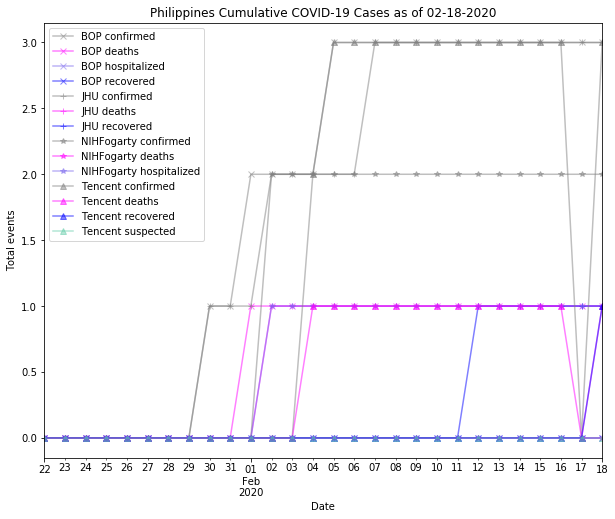
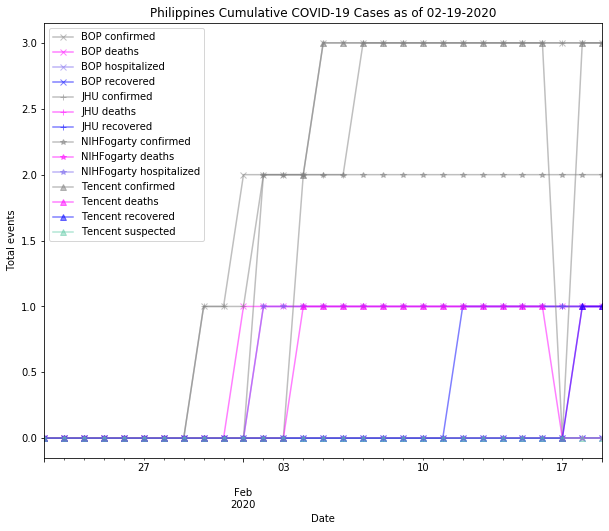
updating daily figs

Changed region(s): [[0.0, 0.0, 0.9984, 0.9557], [0.4992, 0.9557, 0.5616, 0.9865]]

diff --git a/country_reports/United_States_report.md b/country_reports/United_States_report.md
@@ -1,6 +1,6 @@
 # United States
 ## NSSAC COVID-19 Summary
-## 02/18/2020
+## 02/19/2020
 
 
 
@@ -14,11 +14,11 @@
 |                           | BOP              | JHU                         | NIHFogarty       | Tencent                       |
 |---------------------------|------------------|-----------------------------|------------------|-------------------------------|
 | First update logged       | 01/12/20         | 01/22/20                    | 01/13/20         | 02/04/20                      |
-| Last update logged        | 02/06/20         | 02/17/20                    | 02/18/20         | 02/18/20                      |
+| Last update logged        | 02/06/20         | 02/18/20                    | 02/18/20         | 02/19/20                      |
 | Method                    | Public line list | Cases by day & country list | Public line list | Daily cases in country scrape |
 | First known case          | 01/20/20         | 01/22/20                    | 01/21/20         | 02/06/20                      |
-| Total confirmed cases     | 12               | 15                          | 13               | 15                            |
-| New cases since yesterday |                  |                             |                  | 15                            |
+| Total confirmed cases     | 12               | 29                          | 13               | 15                            |
+| New cases since yesterday |                  |                             |                  | 0                             |
 | Total suspected           |                  |                             |                  | 0                             |
 | Total hospitalized        | 2                |                             | 4                |                               |
 | Total recovered           | 0                | 3                           |                  | 3                             |
@@ -44,23 +44,24 @@ Data sources: BOP, JHU, NIH-Fogarty, Tencent
 |  5 | NIH      | Chicago, United States          |           1 |
 |  6 | NIH      | Illinois, United States         |           1 |
 |  7 | NIH      | Wisconsin, United States        |           1 |
-|  8 | JHU      | San Benito, CA, US              |           2 |
-|  9 | JHU      | Chicago, IL, US                 |           2 |
-| 10 | JHU      | San Diego County, CA, US        |           2 |
-| 11 | JHU      | Santa Clara, CA, US             |           2 |
-| 12 | JHU      | Boston, MA, US                  |           1 |
-| 13 | JHU      | Tempe, AZ, US                   |           1 |
-| 14 | JHU      | Madison, WI, US                 |           1 |
-| 15 | JHU      | Orange, CA, US                  |           1 |
-| 16 | JHU      | Los Angeles, CA, US             |           1 |
-| 17 | JHU      | San Antonio, TX, US             |           1 |
-| 18 | JHU      | Seattle, WA, US                 |           1 |
-| 19 | BOP      | California, United States       |           6 |
-| 20 | BOP      | Illinois, United States         |           2 |
-| 21 | BOP      | Massachusetts, United States    |           1 |
-| 22 | BOP      | Washington State, United States |           1 |
-| 23 | BOP      | Arizona, United States          |           1 |
-| 24 | BOP      | Wisconsin, United States        |           1 |
+|  8 | JHU      | Omaha, NE, US                   |          14 |
+|  9 | JHU      | San Benito, CA, US              |           2 |
+| 10 | JHU      | Chicago, IL, US                 |           2 |
+| 11 | JHU      | San Diego County, CA, US        |           2 |
+| 12 | JHU      | Santa Clara, CA, US             |           2 |
+| 13 | JHU      | Madison, WI, US                 |           1 |
+| 14 | JHU      | Tempe, AZ, US                   |           1 |
+| 15 | JHU      | Boston, MA, US                  |           1 |
+| 16 | JHU      | Orange, CA, US                  |           1 |
+| 17 | JHU      | Los Angeles, CA, US             |           1 |
+| 18 | JHU      | San Antonio, TX, US             |           1 |
+| 19 | JHU      | Seattle, WA, US                 |           1 |
+| 20 | BOP      | California, United States       |           6 |
+| 21 | BOP      | Illinois, United States         |           2 |
+| 22 | BOP      | Massachusetts, United States    |           1 |
+| 23 | BOP      | Washington State, United States |           1 |
+| 24 | BOP      | Arizona, United States          |           1 |
+| 25 | BOP      | Wisconsin, United States        |           1 |
 
 Data sources: BOP, JHU, NIH-Fogarty, Tencent
 

diff --git a/country_reports/South_Korea_report.md b/country_reports/South_Korea_report.md
@@ -1,6 +1,6 @@
 # South Korea
 ## NSSAC COVID-19 Summary
-## 02/18/2020
+## 02/19/2020
 
 
 
@@ -14,14 +14,14 @@
 |                           | BOP              | JHU                         | NIHFogarty       | Tencent                       |
 |---------------------------|------------------|-----------------------------|------------------|-------------------------------|
 | First update logged       | 01/12/20         | 01/22/20                    | 01/13/20         | 02/04/20                      |
-| Last update logged        | 02/06/20         | 02/17/20                    | 02/18/20         | 02/18/20                      |
+| Last update logged        | 02/06/20         | 02/18/20                    | 02/18/20         | 02/19/20                      |
 | Method                    | Public line list | Cases by day & country list | Public line list | Daily cases in country scrape |
 | First known case          | 01/20/20         | 01/22/20                    | 01/20/20         | 02/07/20                      |
-| Total confirmed cases     | 21               | 30                          | 28               | 28                            |
-| New cases since yesterday |                  |                             |                  | 28                            |
+| Total confirmed cases     | 21               | 31                          | 28               | 28                            |
+| New cases since yesterday |                  |                             |                  | -23                           |
 | Total suspected           |                  |                             |                  | 0                             |
 | Total hospitalized        | 5                |                             | 6                |                               |
-| Total recovered           | 0                | 10                          |                  | 3                             |
+| Total recovered           | 0                | 12                          |                  | 3                             |
 | Total deaths              | 0                | 0                           | 0                | 0                             |
 
 Data sources: BOP, JHU, NIH-Fogarty, Tencent
@@ -36,10 +36,10 @@ Data sources: BOP, JHU, NIH-Fogarty, Tencent
 
 |    | source   | loc_name                 |   confirmed |
 |----|----------|--------------------------|-------------|
-|  0 | Tencent  | Korea                    |          31 |
+|  0 | Tencent  | Korea                    |          51 |
 |  1 | NIH      | South Korea, South Korea |          27 |
 |  2 | NIH      | Seoul, South Korea       |           1 |
-|  3 | JHU      | South Korea              |          30 |
+|  3 | JHU      | South Korea              |          31 |
 |  4 | BOP      | Gyeonggi, South Korea    |           1 |
 
 Data sources: BOP, JHU, NIH-Fogarty, Tencent

diff --git a/country_reports/Singapore_report.md b/country_reports/Singapore_report.md
@@ -1,6 +1,6 @@
 # Singapore
 ## NSSAC COVID-19 Summary
-## 02/18/2020
+## 02/19/2020
 
 
 
@@ -14,14 +14,14 @@
 |                           | BOP              | JHU                         | NIHFogarty       | Tencent                       |
 |---------------------------|------------------|-----------------------------|------------------|-------------------------------|
 | First update logged       | 01/12/20         | 01/22/20                    | 01/13/20         | 02/04/20                      |
-| Last update logged        | 02/06/20         | 02/17/20                    | 02/18/20         | 02/18/20                      |
+| Last update logged        | 02/06/20         | 02/18/20                    | 02/18/20         | 02/19/20                      |
 | Method                    | Public line list | Cases by day & country list | Public line list | Daily cases in country scrape |
 | First known case          | 01/23/20         | 01/22/20                    | 01/24/20         | 02/04/20                      |
-| Total confirmed cases     | 28               | 77                          | 81               | 81                            |
-| New cases since yesterday |                  |                             | 4                | 4                             |
+| Total confirmed cases     | 28               | 81                          | 81               | 84                            |
+| New cases since yesterday |                  |                             |                  | 3                             |
 | Total suspected           |                  |                             |                  | 0                             |
 | Total hospitalized        | 17               |                             | 65               |                               |
-| Total recovered           | 0                | 24                          |                  | 29                            |
+| Total recovered           | 0                | 29                          |                  | 34                            |
 | Total deaths              | 0                | 0                           | 0                | 0                             |
 
 Data sources: BOP, JHU, NIH-Fogarty, Tencent
@@ -36,9 +36,9 @@ Data sources: BOP, JHU, NIH-Fogarty, Tencent
 
 |    | source   | loc_name             |   confirmed |
 |----|----------|----------------------|-------------|
-|  0 | Tencent  | Singapore            |          81 |
+|  0 | Tencent  | Singapore            |          84 |
 |  1 | NIH      | Singapore, Singapore |          81 |
-|  2 | JHU      | Singapore            |          77 |
+|  2 | JHU      | Singapore            |          81 |
 |  3 | BOP      | Singapore            |          28 |
 
 Data sources: BOP, JHU, NIH-Fogarty, Tencent

diff --git a/country_reports/Japan_report.md b/country_reports/Japan_report.md
@@ -1,6 +1,6 @@
 # Japan
 ## NSSAC COVID-19 Summary
-## 02/18/2020
+## 02/19/2020
 
 
 
@@ -14,14 +14,14 @@
 |                           | BOP              | JHU                         | NIHFogarty       | Tencent                       |
 |---------------------------|------------------|-----------------------------|------------------|-------------------------------|
 | First update logged       | 01/12/20         | 01/22/20                    | 01/13/20         | 02/04/20                      |
-| Last update logged        | 02/06/20         | 02/17/20                    | 02/18/20         | 02/18/20                      |
+| Last update logged        | 02/06/20         | 02/18/20                    | 02/18/20         | 02/19/20                      |
 | Method                    | Public line list | Cases by day & country list | Public line list | Daily cases in country scrape |
 | First known case          | 01/15/20         | 01/22/20                    | 01/15/20         | 02/04/20                      |
-| Total confirmed cases     | 44               | 66                          | 31               | 616                           |
-| New cases since yesterday |                  |                             |                  | 97                            |
+| Total confirmed cases     | 44               | 74                          | 31               | 616                           |
+| New cases since yesterday |                  |                             |                  | 0                             |
 | Total suspected           |                  |                             |                  | 0                             |
 | Total hospitalized        | 16               |                             | 26               |                               |
-| Total recovered           | 1                | 12                          |                  | 1                             |
+| Total recovered           | 1                | 13                          |                  | 1                             |
 | Total deaths              | 0                | 1                           | 0                | 1                             |
 
 Data sources: BOP, JHU, NIH-Fogarty, Tencent
@@ -50,7 +50,7 @@ Data sources: BOP, JHU, NIH-Fogarty, Tencent
 | 11 | NIH      | Mie, Japan                 |           1 |
 | 12 | NIH      | Wakayama Prefecture, Japan |           1 |
 | 13 | NIH      | Nara Prefecture, Japan     |           1 |
-| 14 | JHU      | Japan                      |          66 |
+| 14 | JHU      | Japan                      |          74 |
 | 15 | BOP      | Kanagawa, Japan            |          21 |
 | 16 | BOP      | Tokyo, Japan               |           8 |
 | 17 | BOP      | Kyoto, Japan               |           2 |

diff --git a/country_reports/Malaysia_report.md b/country_reports/Malaysia_report.md
@@ -1,6 +1,6 @@
 # Malaysia
 ## NSSAC COVID-19 Summary
-## 02/18/2020
+## 02/19/2020
 
 
 
@@ -14,14 +14,14 @@
 |                           | BOP              | JHU                         | NIHFogarty       | Tencent                       |
 |---------------------------|------------------|-----------------------------|------------------|-------------------------------|
 | First update logged       | 01/12/20         | 01/22/20                    | 01/13/20         | 02/04/20                      |
-| Last update logged        | 02/06/20         | 02/17/20                    | 02/18/20         | 02/18/20                      |
+| Last update logged        | 02/06/20         | 02/18/20                    | 02/18/20         | 02/19/20                      |
 | Method                    | Public line list | Cases by day & country list | Public line list | Daily cases in country scrape |
 | First known case          | 01/25/20         | 01/22/20                    | 01/24/20         | 02/06/20                      |
 | Total confirmed cases     | 12               | 22                          | 18               | 21                            |
-| New cases since yesterday |                  |                             |                  | 21                            |
+| New cases since yesterday |                  |                             |                  | 2                             |
 | Total suspected           |                  |                             |                  | 0                             |
 | Total hospitalized        | 1                |                             | 4                |                               |
-| Total recovered           | 0                | 7                           |                  | 3                             |
+| Total recovered           | 0                | 13                          |                  | 3                             |
 | Total deaths              | 0                | 0                           | 0                | 0                             |
 
 Data sources: BOP, JHU, NIH-Fogarty, Tencent

diff --git a/country_reports/Vietnam_report.md b/country_reports/Vietnam_report.md
@@ -1,6 +1,6 @@
 # Vietnam
 ## NSSAC COVID-19 Summary
-## 02/18/2020
+## 02/19/2020
 
 
 
@@ -14,11 +14,11 @@
 |                           | BOP              | JHU                         | NIHFogarty       | Tencent                       |
 |---------------------------|------------------|-----------------------------|------------------|-------------------------------|
 | First update logged       | 01/12/20         | 01/22/20                    | 01/13/20         | 02/04/20                      |
-| Last update logged        | 02/06/20         | 02/17/20                    | 02/18/20         | 02/18/20                      |
+| Last update logged        | 02/06/20         | 02/18/20                    | 02/18/20         | 02/19/20                      |
 | Method                    | Public line list | Cases by day & country list | Public line list | Daily cases in country scrape |
-| First known case          | 01/23/20         | 01/22/20                    | 01/23/20         | 02/07/20                      |
+| First known case          | 01/23/20         | 01/22/20                    | 01/23/20         | 02/06/20                      |
 | Total confirmed cases     | 12               | 16                          | 15               | 16                            |
-| New cases since yesterday |                  |                             |                  | 16                            |
+| New cases since yesterday |                  |                             |                  | 0                             |
 | Total suspected           |                  |                             |                  | 0                             |
 | Total hospitalized        | 8                |                             | 1                |                               |
 | Total recovered           | 0                | 7                           |                  | 7                             |

diff --git a/country_reports/Taiwan_report.md b/country_reports/Taiwan_report.md
@@ -1,6 +1,6 @@
 # Taiwan
 ## NSSAC COVID-19 Summary
-## 02/18/2020
+## 02/19/2020
 
 
 
@@ -14,11 +14,11 @@
 |                           | BOP              | JHU                         | NIHFogarty       | Tencent                       |
 |---------------------------|------------------|-----------------------------|------------------|-------------------------------|
 | First update logged       | 01/12/20         | 01/22/20                    | 01/13/20         | 02/04/20                      |
-| Last update logged        | 02/06/20         | 02/17/20                    | 02/18/20         | 02/18/20                      |
+| Last update logged        | 02/06/20         | 02/18/20                    | 02/18/20         | 02/19/20                      |
 | Method                    | Public line list | Cases by day & country list | Public line list | Daily cases in country scrape |
 | First known case          | 02/06/20         | 01/22/20                    | 01/21/20         | 02/04/20                      |
-| Total confirmed cases     | 3                | 22                          | 18               | 22                            |
-| New cases since yesterday |                  |                             |                  | 0                             |
+| Total confirmed cases     | 3                | 22                          | 18               | 23                            |
+| New cases since yesterday |                  |                             |                  | 1                             |
 | Total suspected           |                  |                             |                  | 0                             |
 | Total hospitalized        | 3                |                             | 13               |                               |
 | Total recovered           | 0                | 2                           |                  | 2                             |

diff --git a/country_reports/United_Kingdom_report.md b/country_reports/United_Kingdom_report.md
@@ -1,6 +1,6 @@
 # United Kingdom
 ## NSSAC COVID-19 Summary
-## 02/18/2020
+## 02/19/2020
 
 
 
@@ -14,11 +14,11 @@
 |                           | BOP              | JHU                         | NIHFogarty       | Tencent                       |
 |---------------------------|------------------|-----------------------------|------------------|-------------------------------|
 | First update logged       | 01/12/20         | 01/22/20                    | 01/13/20         | 02/04/20                      |
-| Last update logged        | 02/06/20         | 02/17/20                    | 02/18/20         | 02/18/20                      |
+| Last update logged        | 02/06/20         | 02/18/20                    | 02/18/20         | 02/19/20                      |
 | Method                    | Public line list | Cases by day & country list | Public line list | Daily cases in country scrape |
 | First known case          | 01/31/20         | 01/22/20                    | 01/31/20         | 02/06/20                      |
 | Total confirmed cases     | 3                | 9                           | 9                | 8                             |
-| New cases since yesterday |                  |                             |                  | 8                             |
+| New cases since yesterday |                  |                             |                  | 0                             |
 | Total suspected           |                  |                             |                  | 0                             |
 | Total hospitalized        | 0                |                             | 0                |                               |
 | Total recovered           | 0                | 8                           |                  | 0                             |

diff --git a/country_reports/Philippines_report.md b/country_reports/Philippines_report.md
@@ -1,6 +1,6 @@
 # Philippines
 ## NSSAC COVID-19 Summary
-## 02/18/2020
+## 02/19/2020
 
 
 
@@ -14,11 +14,11 @@
 |                           | BOP              | JHU                         | NIHFogarty       | Tencent                       |
 |---------------------------|------------------|-----------------------------|------------------|-------------------------------|
 | First update logged       | 01/12/20         | 01/22/20                    | 01/13/20         | 02/04/20                      |
-| Last update logged        | 02/06/20         | 02/17/20                    | 02/18/20         | 02/18/20                      |
+| Last update logged        | 02/06/20         | 02/18/20                    | 02/18/20         | 02/19/20                      |
 | Method                    | Public line list | Cases by day & country list | Public line list | Daily cases in country scrape |
 | First known case          | 01/30/20         | 01/22/20                    | 02/02/20         | 02/17/20                      |
 | Total confirmed cases     | 3                | 3                           | 2                | 3                             |
-| New cases since yesterday |                  |                             |                  | 3                             |
+| New cases since yesterday |                  |                             |                  | 0                             |
 | Total suspected           |                  |                             |                  | 0                             |
 | Total hospitalized        | 0                |                             | 1                |                               |
 | Total recovered           | 0                | 1                           |                  | 1                             |

diff --git a/country_reports/Sri_Lanka_report.md b/country_reports/Sri_Lanka_report.md
@@ -1,6 +1,6 @@
 # Sri Lanka
 ## NSSAC COVID-19 Summary
-## 02/18/2020
+## 02/19/2020
 
 
 
@@ -14,11 +14,11 @@
 |                           | BOP              | JHU                         | NIHFogarty       | Tencent                       |
 |---------------------------|------------------|-----------------------------|------------------|-------------------------------|
 | First update logged       | 01/12/20         | 01/22/20                    | 01/13/20         | 02/04/20                      |
-| Last update logged        | 02/06/20         | 02/17/20                    | 02/18/20         | 02/18/20                      |
+| Last update logged        | 02/06/20         | 02/18/20                    | 02/18/20         | 02/19/20                      |
 | Method                    | Public line list | Cases by day & country list | Public line list | Daily cases in country scrape |
 | First known case          | 01/27/20         | 01/22/20                    | 01/28/20         | 02/06/20                      |
 | Total confirmed cases     | 1                | 1                           | 1                | 1                             |
-| New cases since yesterday |                  |                             |                  | 1                             |
+| New cases since yesterday |                  |                             |                  | 0                             |
 | Total suspected           |                  |                             |                  | 0                             |
 | Total hospitalized        | 1                |                             | 1                |                               |
 | Total recovered           | 0                | 1                           |                  | 1                             |

diff --git a/country_reports/Russia_report.md b/country_reports/Russia_report.md
@@ -1,6 +1,6 @@
 # Russia
 ## NSSAC COVID-19 Summary
-## 02/18/2020
+## 02/19/2020
 
 
 
@@ -14,11 +14,11 @@
 |                           | BOP              | JHU                         | NIHFogarty       | Tencent                       |
 |---------------------------|------------------|-----------------------------|------------------|-------------------------------|
 | First update logged       | 01/12/20         | 01/22/20                    | 01/13/20         | 02/04/20                      |
-| Last update logged        | 02/06/20         | 02/17/20                    | 02/18/20         | 02/18/20                      |
+| Last update logged        | 02/06/20         | 02/18/20                    | 02/18/20         | 02/19/20                      |
 | Method                    | Public line list | Cases by day & country list | Public line list | Daily cases in country scrape |
 | First known case          | 01/31/20         | 01/22/20                    | 01/31/20         | 02/06/20                      |
 | Total confirmed cases     | 2                | 2                           | 2                | 2                             |
-| New cases since yesterday |                  |                             |                  | 2                             |
+| New cases since yesterday |                  |                             |                  | 0                             |
 | Total suspected           |                  |                             |                  | 0                             |
 | Total hospitalized        | 0                |                             | 0                |                               |
 | Total recovered           | 0                | 2                           |                  | 0                             |

diff --git a/country_reports/UAE_report.md b/country_reports/UAE_report.md
@@ -1,6 +1,6 @@
 # UAE
 ## NSSAC COVID-19 Summary
-## 02/18/2020
+## 02/19/2020
 
 
 
@@ -14,11 +14,11 @@
 |                           | BOP              | JHU                         | NIHFogarty       | Tencent                       |
 |---------------------------|------------------|-----------------------------|------------------|-------------------------------|
 | First update logged       | 01/12/20         | 01/22/20                    | 01/13/20         | 02/04/20                      |
-| Last update logged        | 02/06/20         | 02/17/20                    | 02/18/20         | 02/18/20                      |
+| Last update logged        | 02/06/20         | 02/18/20                    | 02/18/20         | 02/19/20                      |
 | Method                    | Public line list | Cases by day & country list | Public line list | Daily cases in country scrape |
 | First known case          | 01/29/20         | 01/22/20                    | 01/29/20         | 02/06/20                      |
 | Total confirmed cases     | 5                | 9                           | 8                | 8                             |
-| New cases since yesterday |                  |                             |                  | 8                             |
+| New cases since yesterday |                  |                             |                  | 0                             |
 | Total suspected           |                  |                             |                  | 0                             |
 | Total hospitalized        | 4                |                             | 0                |                               |
 | Total recovered           | 0                | 4                           |                  | 1                             |
